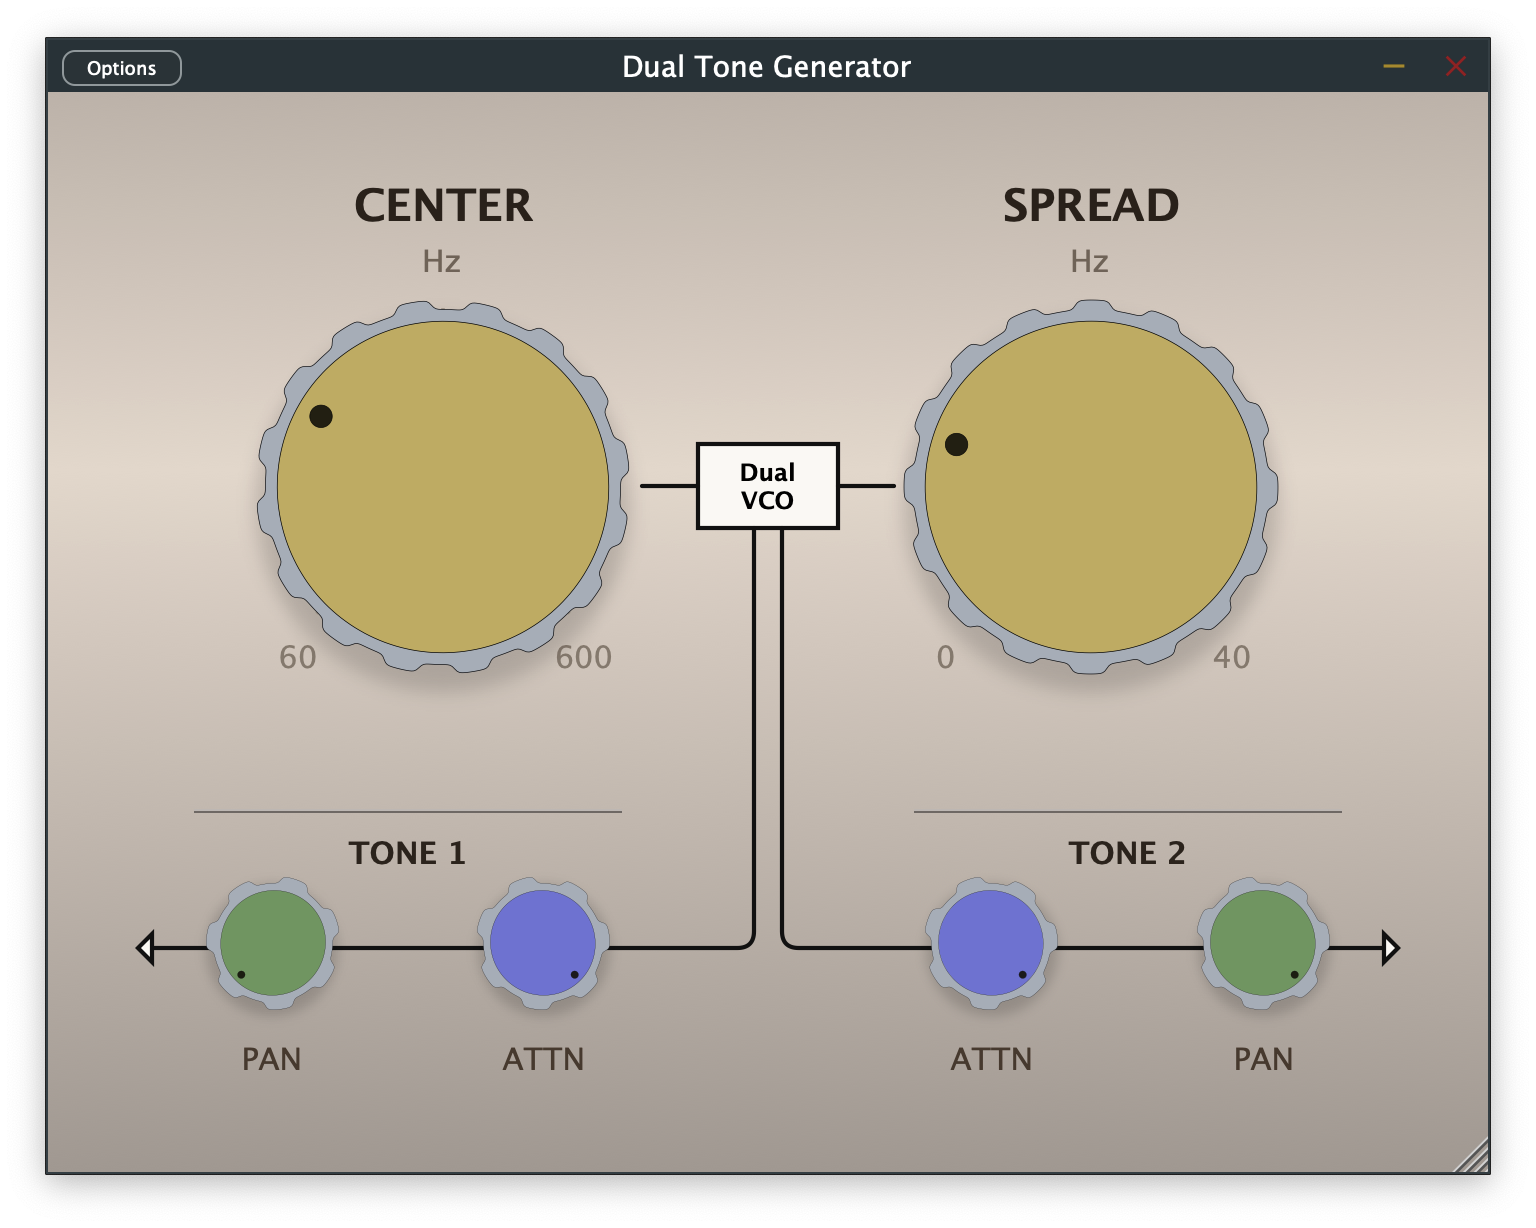
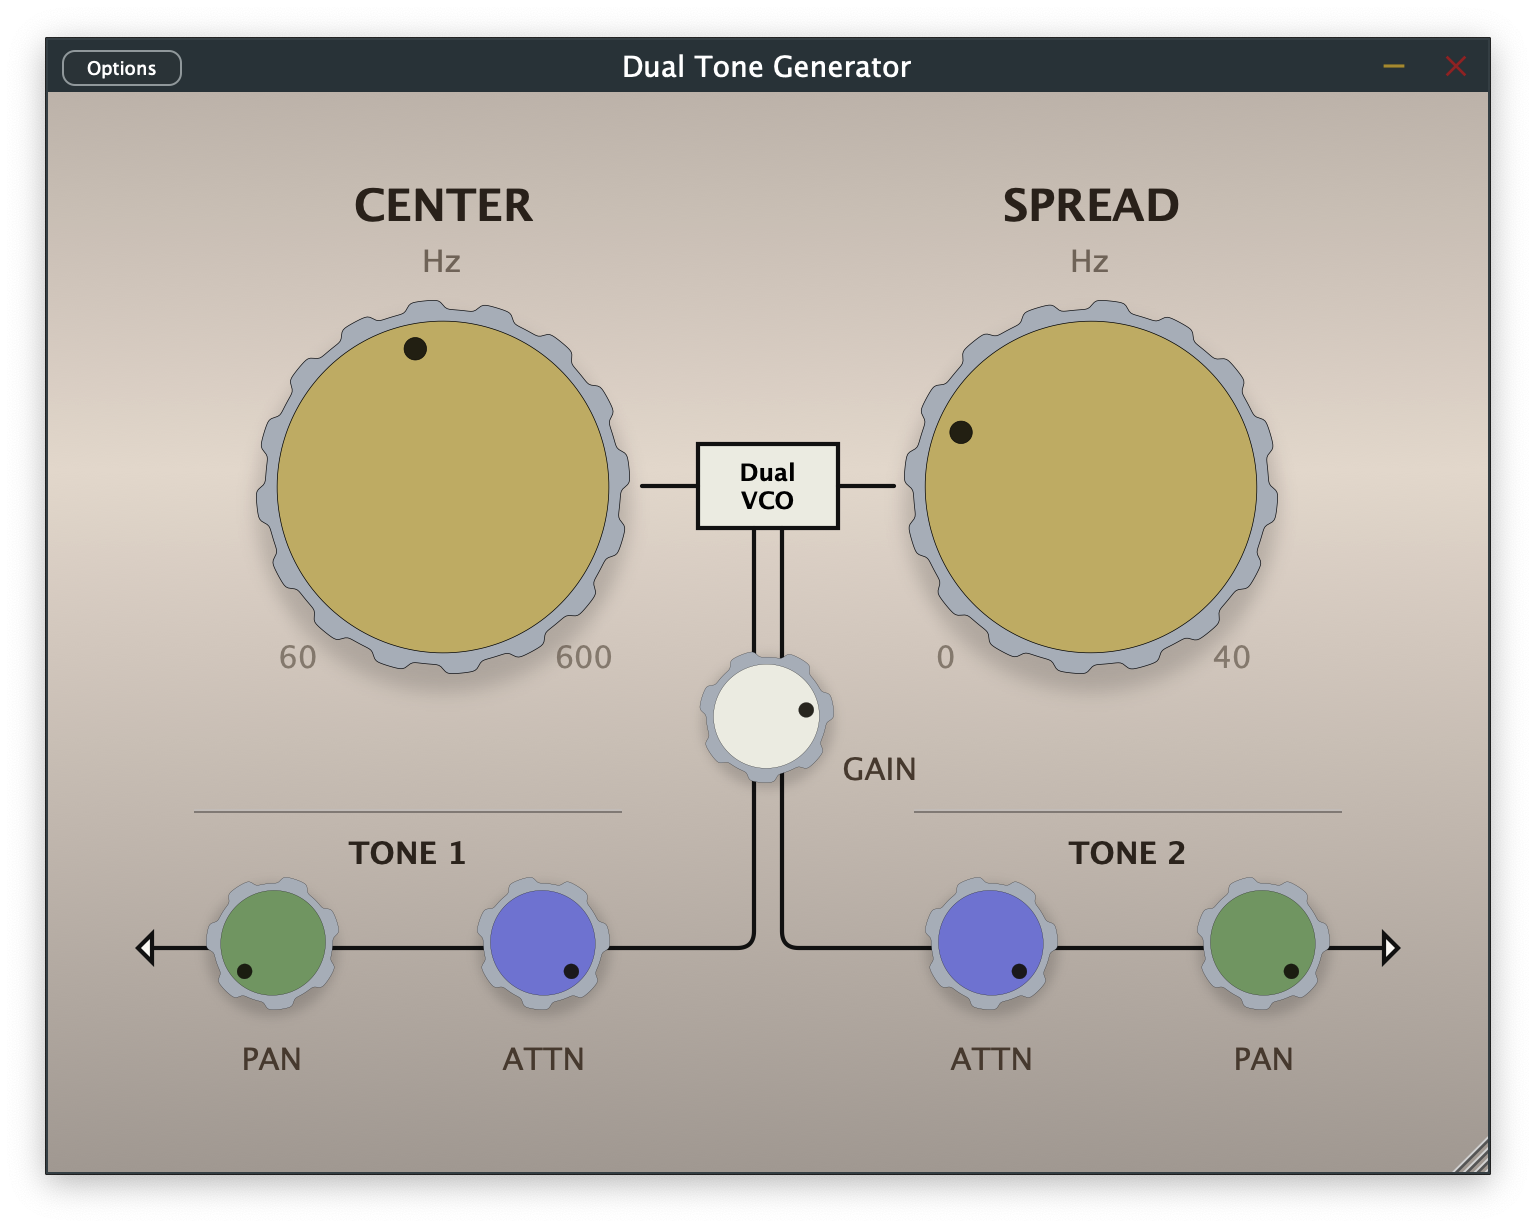
feat: add gain knob to ui

diff --git a/source/PluginEditor.cpp b/source/PluginEditor.cpp
@@ -21,6 +21,7 @@ const juce::Colour dialOutlineColour { 116, 96, 80 };
 const juce::Colour largeDialTrackColour { 196, 72, 62 };
 const juce::Colour greenTrackColour { 104, 164, 122 };
 const juce::Colour blueTrackColour { 74, 132, 198 };
+const juce::Colour grayTrackColour { 124, 118, 112 };
 
 constexpr float dualVcoSvgRectX = 740.0f;
 constexpr float dualVcoSvgRectY = 310.0f;
@@ -42,6 +43,7 @@ DualToneGeneratorAudioProcessorEditor::DualToneGeneratorAudioProcessorEditor(Dua
       panTwoAttachment(processorRef.getValueTreeState(), "pan2", panTwoSlider),
       attenuationOneAttachment(processorRef.getValueTreeState(), "atten1", attenuationOneSlider),
       attenuationTwoAttachment(processorRef.getValueTreeState(), "atten2", attenuationTwoSlider),
+      gainAttachment(processorRef.getValueTreeState(), "gain", gainSlider),
       largeDialLookAndFeel(std::make_unique<SvgDialLookAndFeel>(BinaryData::cog_knob_large_svg,
                                                                 BinaryData::cog_knob_large_svgSize,
                                                                 largeDialTrackColour,
@@ -53,6 +55,10 @@ DualToneGeneratorAudioProcessorEditor::DualToneGeneratorAudioProcessorEditor(Dua
       blueDialLookAndFeel(std::make_unique<SvgDialLookAndFeel>(BinaryData::cog_knob_blue_svg,
                                                                BinaryData::cog_knob_blue_svgSize,
                                                                blueTrackColour,
+                                                               dialOutlineColour)),
+      grayDialLookAndFeel(std::make_unique<SvgDialLookAndFeel>(BinaryData::cog_knob_gray_svg,
+                                                               BinaryData::cog_knob_gray_svgSize,
+                                                               grayTrackColour,
                                                                dialOutlineColour))
 {
     configureSlider(centerSlider, centerLabel, "CENTER", juce::Slider::RotaryVerticalDrag);
@@ -61,11 +67,12 @@ DualToneGeneratorAudioProcessorEditor::DualToneGeneratorAudioProcessorEditor(Dua
     configureSlider(attenuationOneSlider, attenuationOneLabel, "ATTN", juce::Slider::RotaryVerticalDrag);
     configureSlider(attenuationTwoSlider, attenuationTwoLabel, "ATTN", juce::Slider::RotaryVerticalDrag);
     configureSlider(panTwoSlider, panTwoLabel, "PAN", juce::Slider::RotaryVerticalDrag);
+    configureSlider(gainSlider, gainLabel, "GAIN", juce::Slider::RotaryVerticalDrag);
 
     const auto startAngle = juce::degreesToRadians(225.0f);
     const auto endAngle = juce::degreesToRadians(495.0f);
 
-    for (auto* slider : { &centerSlider, &spreadSlider, &panOneSlider, &panTwoSlider, &attenuationOneSlider, &attenuationTwoSlider })
+    for (auto* slider : { &centerSlider, &spreadSlider, &panOneSlider, &panTwoSlider, &attenuationOneSlider, &attenuationTwoSlider, &gainSlider })
     {
         slider->setRotaryParameters(startAngle, endAngle, true);
         slider->setPaintingIsUnclipped(true);
@@ -81,6 +88,7 @@ DualToneGeneratorAudioProcessorEditor::DualToneGeneratorAudioProcessorEditor(Dua
     panTwoSlider.setLookAndFeel(greenDialLookAndFeel.get());
     attenuationOneSlider.setLookAndFeel(blueDialLookAndFeel.get());
     attenuationTwoSlider.setLookAndFeel(blueDialLookAndFeel.get());
+    gainSlider.setLookAndFeel(grayDialLookAndFeel.get());
 
     centerSlider.setTextValueSuffix(" Hz");
     centerSlider.setNumDecimalPlacesToDisplay(1);
@@ -102,9 +110,22 @@ DualToneGeneratorAudioProcessorEditor::DualToneGeneratorAudioProcessorEditor(Dua
     panTwoSlider.setNumDecimalPlacesToDisplay(2);
 
     attenuationOneSlider.setTextValueSuffix(" dB");
-   attenuationTwoSlider.setTextValueSuffix(" dB");
-   attenuationOneSlider.setNumDecimalPlacesToDisplay(1);
-   attenuationTwoSlider.setNumDecimalPlacesToDisplay(1);
+    attenuationTwoSlider.setTextValueSuffix(" dB");
+    attenuationOneSlider.setNumDecimalPlacesToDisplay(1);
+    attenuationTwoSlider.setNumDecimalPlacesToDisplay(1);
+
+    gainSlider.setTextValueSuffix(" %");
+    gainSlider.textFromValueFunction = [](double value)
+    {
+        return juce::String(value * 100.0, 0);
+    };
+    gainSlider.valueFromTextFunction = [](const juce::String& text)
+    {
+        auto cleaned = text.retainCharacters("0123456789.,");
+        cleaned = cleaned.replaceCharacter(',', '.');
+        return cleaned.getDoubleValue() * 0.01;
+    };
+    gainSlider.setNumDecimalPlacesToDisplay(0);
 
     dualVcoDrawable = juce::Drawable::createFromImageData(BinaryData::vco_circuit_svg,
                                                           BinaryData::vco_circuit_svgSize);
@@ -132,6 +153,7 @@ DualToneGeneratorAudioProcessorEditor::DualToneGeneratorAudioProcessorEditor(Dua
     initStaticLabel(panTwoLabel, "PAN", 18.0f);
     initStaticLabel(attenuationOneLabel, "ATTN", 18.0f);
     initStaticLabel(attenuationTwoLabel, "ATTN", 18.0f);
+    initStaticLabel(gainLabel, "GAIN", 18.0f);
     initStaticLabel(toneOneTitleLabel, "TONE 1", 18.0f, true, toneAccentColour);
     initStaticLabel(toneTwoTitleLabel, "TONE 2", 18.0f, true, toneAccentColour);
     initStaticLabel(centerUnitLabel, "Hz", 18.0f, false, labelActiveColour.withMultipliedAlpha(0.7f));
@@ -160,7 +182,7 @@ DualToneGeneratorAudioProcessorEditor::~DualToneGeneratorAudioProcessorEditor()
 {
     stopTimer();
 
-    for (auto* slider : { &centerSlider, &spreadSlider, &panOneSlider, &panTwoSlider, &attenuationOneSlider, &attenuationTwoSlider })
+    for (auto* slider : { &centerSlider, &spreadSlider, &panOneSlider, &panTwoSlider, &attenuationOneSlider, &attenuationTwoSlider, &gainSlider })
         slider->setLookAndFeel(nullptr);
 }
 
@@ -302,6 +324,19 @@ void DualToneGeneratorAudioProcessorEditor::resized()
     layoutToneSection(toneOneArea, toneOneTitleLabel, panOneSlider, panOneLabel, attenuationOneSlider, attenuationOneLabel, scale);
     layoutToneSection(toneTwoArea, toneTwoTitleLabel, attenuationTwoSlider, attenuationTwoLabel, panTwoSlider, panTwoLabel, scale);
 
+    const auto topDialsCentreY = (centerSlider.getBounds().getCentreY() + spreadSlider.getBounds().getCentreY()) / 2;
+    const auto toneDialsCentreY = (panOneSlider.getBounds().getCentreY()
+                                   + panTwoSlider.getBounds().getCentreY()
+                                   + attenuationOneSlider.getBounds().getCentreY()
+                                   + attenuationTwoSlider.getBounds().getCentreY()) / 4;
+    const auto gainCentreY = juce::roundToInt(static_cast<float>(topDialsCentreY + toneDialsCentreY) * 0.5f);
+    const auto gainAreaWidth = juce::roundToInt(210.0f * scale);
+    const auto gainAreaHeight = juce::roundToInt(200.0f * scale);
+    auto gainArea = juce::Rectangle<int>(gainAreaWidth, gainAreaHeight)
+                        .withCentre({ contentPanelBounds.getCentreX(), gainCentreY })
+                        .getIntersection(contentPanelBounds);
+    layoutGainDial(gainArea, scale);
+
     toneOnePanelBounds = expandPanel(toneOneArea, tonePanelExpandTop, tonePanelExpandBottom);
     toneTwoPanelBounds = expandPanel(toneTwoArea, tonePanelExpandTop, tonePanelExpandBottom);
 
@@ -352,6 +387,7 @@ void DualToneGeneratorAudioProcessorEditor::updateScaledStyles(float scale)
     setLabelFont(panTwoLabel, 18.0f);
     setLabelFont(attenuationOneLabel, 18.0f);
     setLabelFont(attenuationTwoLabel, 18.0f);
+    setLabelFont(gainLabel, 18.0f);
     setLabelFont(toneOneTitleLabel, 18.0f, true);
     setLabelFont(toneTwoTitleLabel, 18.0f, true);
     setLabelFont(centerUnitLabel, 18.0f);
@@ -440,6 +476,30 @@ void DualToneGeneratorAudioProcessorEditor::layoutSmallDial(juce::Slider& slider
     auto labelBounds = juce::Rectangle<int>(dialBounds.getWidth() + smallLabelExtraWidth, smallLabelHeight);
     labelBounds.setCentre({ dialBounds.getCentreX(), dialBounds.getBottom() + smallLabelHeight });
     label.setBounds(labelBounds);
+}
+
+void DualToneGeneratorAudioProcessorEditor::layoutGainDial(juce::Rectangle<int> area,
+                                                           float scale)
+{
+    const auto labelFontHeight = gainLabel.getFont().getHeight();
+    const auto minLabelHeight = juce::roundToInt(36.0f * scale);
+    const auto labelHeight = juce::jmax(minLabelHeight, juce::roundToInt(labelFontHeight * 2.2f));
+    const auto labelGap = juce::roundToInt(12.0f * scale);
+    const auto labelWidth = juce::roundToInt(70.0f * scale);
+    const auto labelDrop = juce::roundToInt(6.0f * scale);
+    const auto labelLeftAdjust = juce::roundToInt(30.0f * scale);
+
+    const auto referenceSize = panOneSlider.getBounds().getWidth();
+    const auto fallbackSize = juce::roundToInt(90.0f * scale);
+    const auto dialSize = referenceSize > 0 ? referenceSize : fallbackSize;
+
+    auto dialBounds = juce::Rectangle<int>(dialSize, dialSize).withCentre(area.getCentre());
+    gainSlider.setBounds(dialBounds);
+
+    const auto labelX = dialBounds.getRight() + labelGap - labelLeftAdjust;
+    const auto labelY = dialBounds.getCentreY() + labelDrop;
+    auto labelBounds = juce::Rectangle<int>(labelWidth, labelHeight).withPosition({ labelX, labelY });
+    gainLabel.setBounds(labelBounds);
 }
 
 void DualToneGeneratorAudioProcessorEditor::layoutToneSection(juce::Rectangle<int> area,

diff --git a/source/PluginEditor.h b/source/PluginEditor.h
@@ -39,6 +39,9 @@ private:
                          juce::Rectangle<int> area,
                          float scale);
 
+    void layoutGainDial(juce::Rectangle<int> area,
+                        float scale);
+
     void layoutToneSection(juce::Rectangle<int> area,
                            juce::Label& title,
                            juce::Slider& firstSlider,
@@ -60,6 +63,7 @@ private:
     juce::Slider panTwoSlider;
     juce::Slider attenuationOneSlider;
     juce::Slider attenuationTwoSlider;
+    juce::Slider gainSlider;
 
     juce::Label toneOneTitleLabel;
     juce::Label toneTwoTitleLabel;
@@ -69,6 +73,7 @@ private:
     juce::Label panTwoLabel;
     juce::Label attenuationOneLabel;
     juce::Label attenuationTwoLabel;
+    juce::Label gainLabel;
     juce::Label centerUnitLabel;
     juce::Label spreadUnitLabel;
     juce::Label centerMinLabel;
@@ -82,10 +87,12 @@ private:
     juce::AudioProcessorValueTreeState::SliderAttachment panTwoAttachment;
     juce::AudioProcessorValueTreeState::SliderAttachment attenuationOneAttachment;
     juce::AudioProcessorValueTreeState::SliderAttachment attenuationTwoAttachment;
+    juce::AudioProcessorValueTreeState::SliderAttachment gainAttachment;
 
     std::unique_ptr<SvgDialLookAndFeel> largeDialLookAndFeel;
     std::unique_ptr<SvgDialLookAndFeel> greenDialLookAndFeel;
     std::unique_ptr<SvgDialLookAndFeel> blueDialLookAndFeel;
+    std::unique_ptr<SvgDialLookAndFeel> grayDialLookAndFeel;
     std::unique_ptr<juce::Drawable> dualVcoDrawable;
     juce::AffineTransform dualVcoTransform;
     juce::Rectangle<int> contentPanelBounds;

diff --git a/source/PluginProcessor.cpp b/source/PluginProcessor.cpp
@@ -46,7 +46,7 @@ juce::AudioProcessorValueTreeState::ParameterLayout DualToneGeneratorAudioProces
     auto attenuationRange = NormalisableRange<float>(-24.0f, 0.0f, 0.01f);
     layout.add(std::make_unique<AudioParameterFloat>("atten1", "Attenuation 1", attenuationRange, 0.0f, "dB"));
     layout.add(std::make_unique<AudioParameterFloat>("atten2", "Attenuation 2", attenuationRange, 0.0f, "dB"));
-    layout.add(std::make_unique<AudioParameterFloat>("gain", "Gain", 0.0f, 1.0f, 1.0f));
+    layout.add(std::make_unique<AudioParameterFloat>("gain", "Gain", 0.0f, 1.0f, 0.8f));
 
     return layout;
 }

diff --git a/README.md b/README.md
@@ -27,9 +27,7 @@ The actual oscillator frequencies are derived from the two controls as:
 
 With the default values (Center = 100 Hz, Spread = 2 Hz) the tones start at 98 Hz and 102 Hz respectively.
 
-Attn 1 and Attn 2 should intially be set to 0 dB.
-
-Gain should intially be set to 1.
+Attn 1 and Attn 2 should intially be set to 0 dB. Gain should intially be set to 80 %.
 
 ## Build Instructions
 
